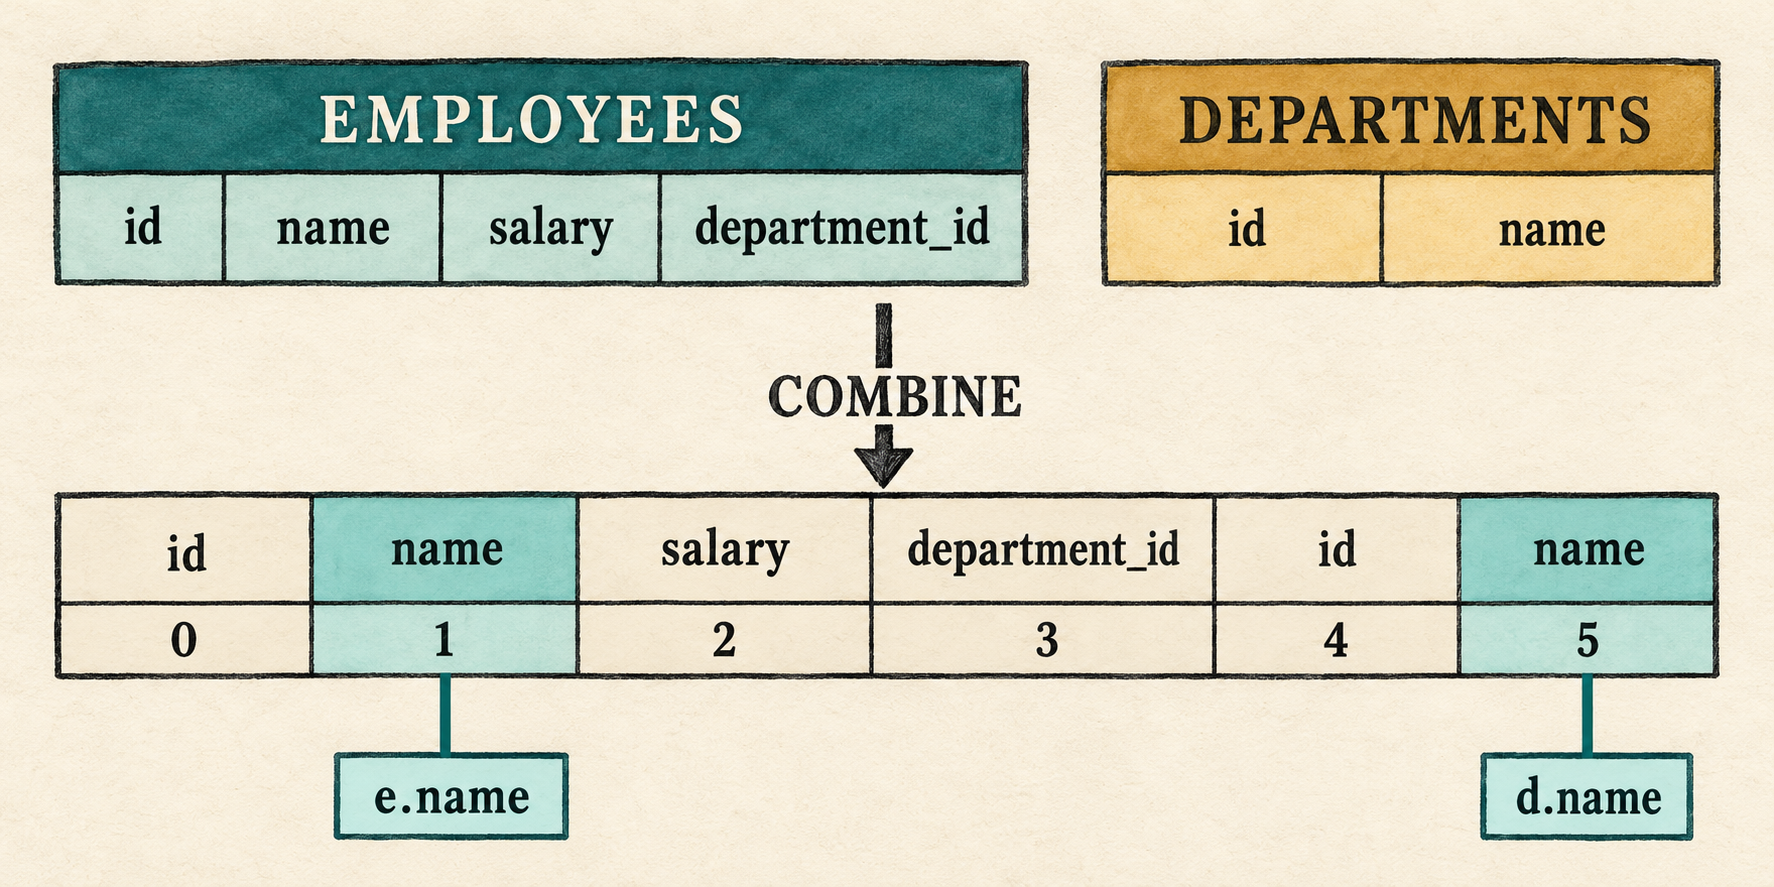
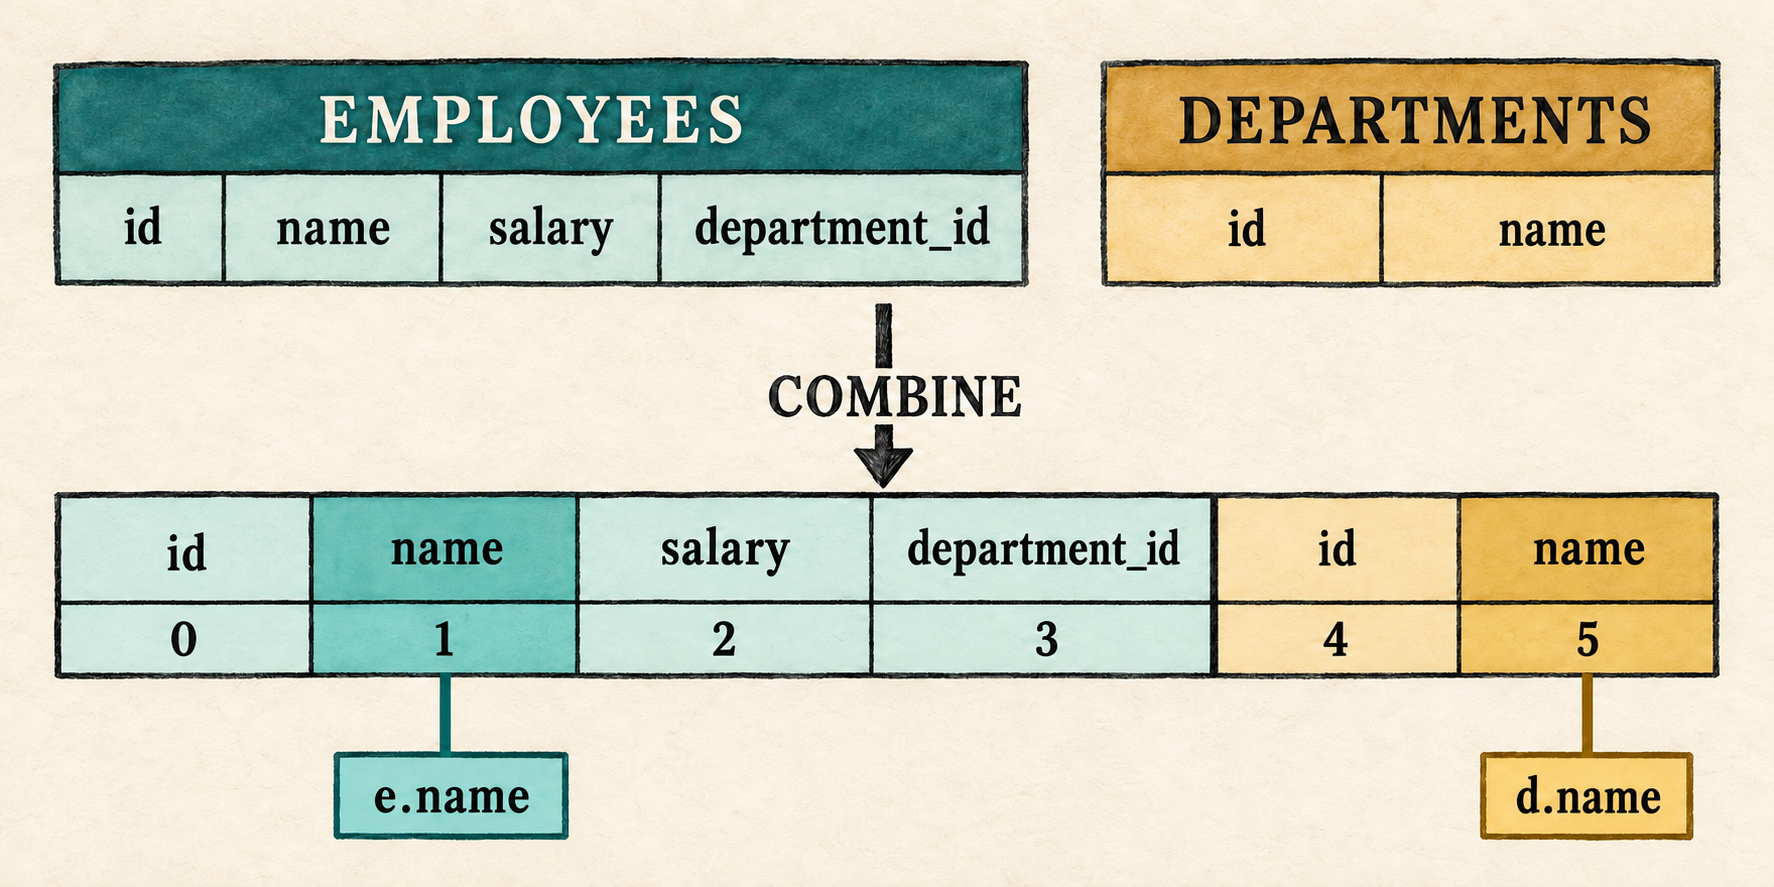
Clarify the Chapter 7 slot illustration

diff --git a/book/007-the-first-join.md b/book/007-the-first-join.md
@@ -361,18 +361,10 @@ contain only one column with that name. A joined row may contain both
 
 The binder will therefore replace each resolved name with a **column slot**,
 its zero-based position in the combined row. It retains the original name for
-readable diagnostics:
-
-```text
-employees row                 departments row
-[id, name, salary, department_id] + [id, name]
-                ↓
-[id, name, salary, department_id, id, name]
-  0    1      2          3         4    5
-```
-
-In this layout, `e.name` binds to slot 1 and `d.name` binds to slot 5. The two
-labels may be identical because execution reads the checked slots.
+readable diagnostics. The employee fields occupy slots 0 through 3, followed
+by the department fields in slots 4 and 5. In this layout, `e.name` binds to
+slot 1 and `d.name` binds to slot 5. The two labels may be identical because
+execution reads the checked slots.
 
 <figure class="book-illustration book-diagram">
   <img src="images/007-qualified-columns-become-slots.png" alt="The employee row and department row combine in left-to-right order, allowing e.name to bind to slot 1 and d.name to bind to slot 5 even though both columns are named name.">
